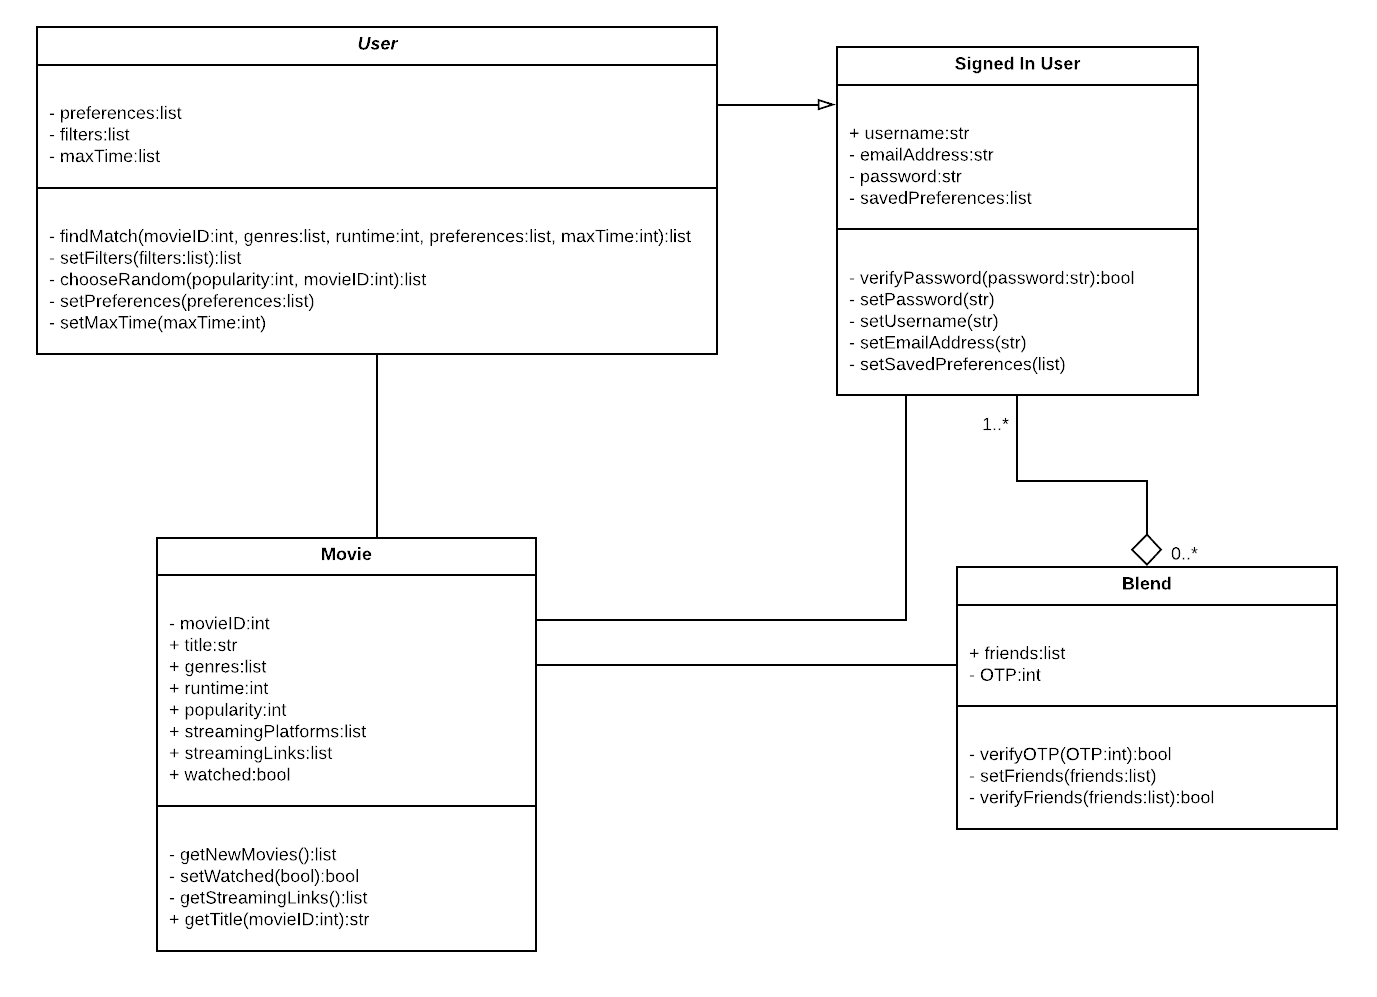
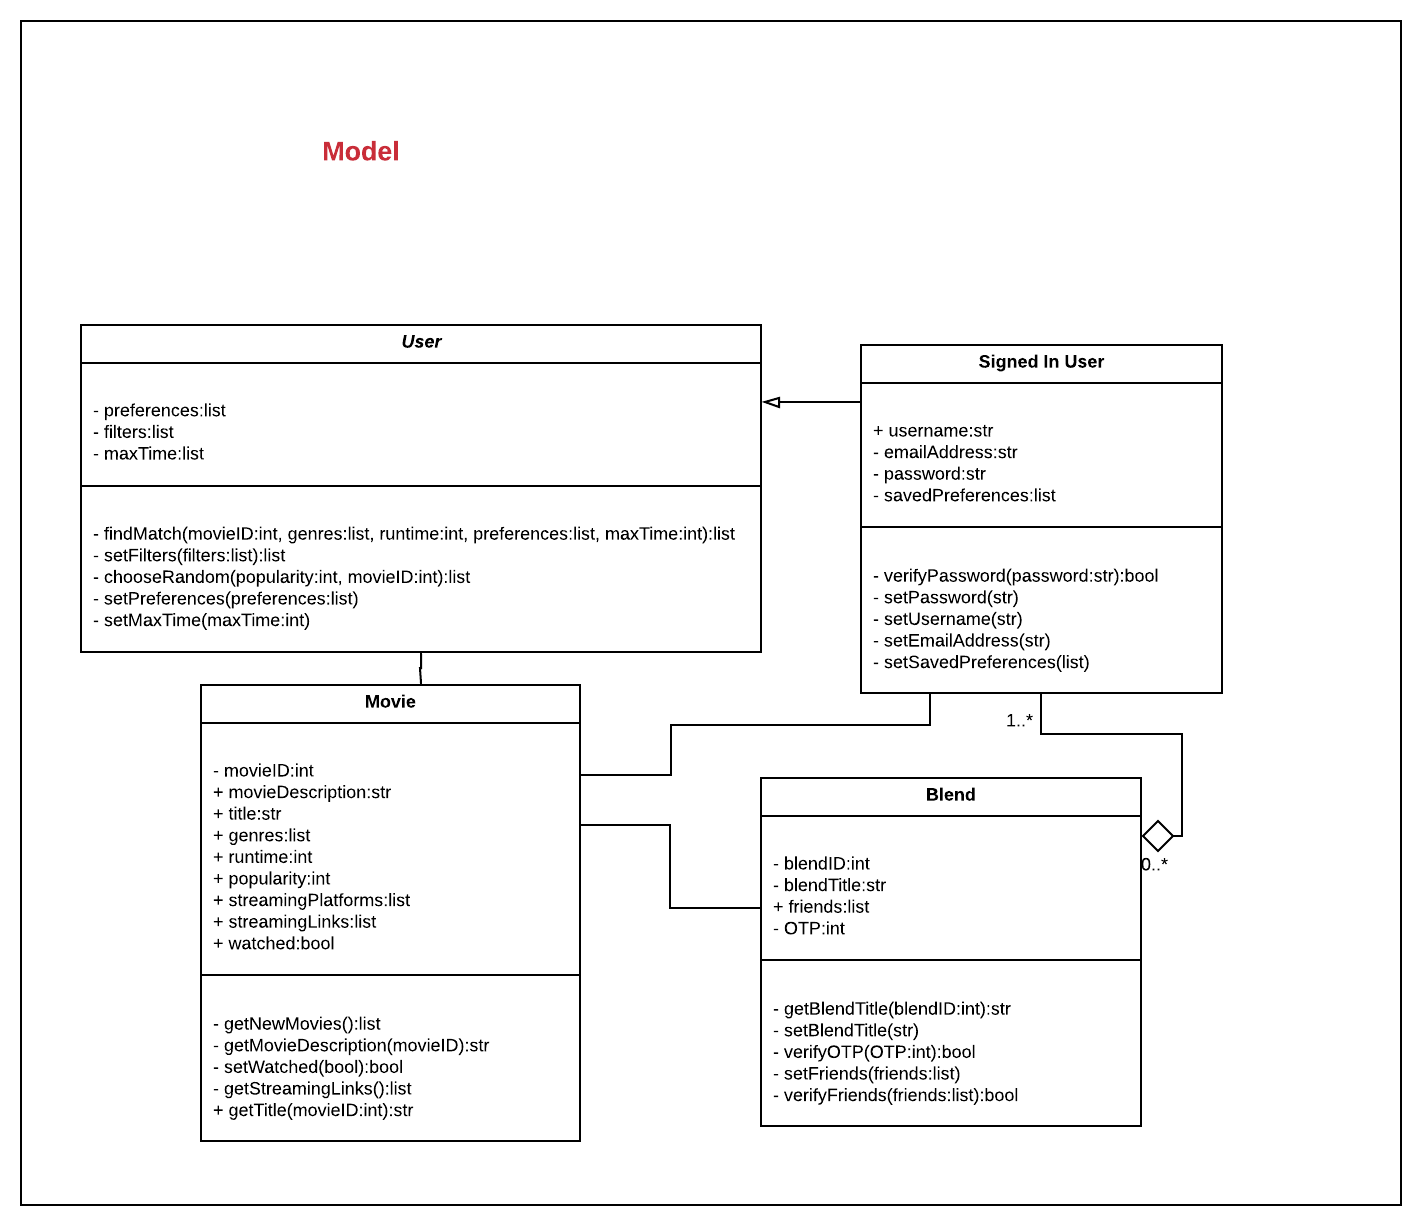
Completed MVC diagram

diff --git a/README.md b/README.md
@@ -99,7 +99,7 @@ The “view” aspect of the MVC pattern represents the structure and appearance
 According to a 2017 survey, 42% of people prefer to use their laptop or desktop to watch TV shows, compared to 13% for smartphone fans and 23% television traditionalists. Although the statistics would likely be quite different for movies, due to widespread appreciation for enjoying cinema on the "big screen", the results of the 2017 survey imply that people are substantially more likely to watch movies on their laptop/desktop than their phones. For this reason,  I decided to optimise the app for desktop use, as it seemed that it would be the most likely Internet-connected device of choice for movie-watchers. 
 
 ![Flow Diagram](Application_Design/flow_diagram_wireframe.png)
-##### Wireframes*
+##### Wireframes
 
 <details>
   <summary>Wireframes</summary>
@@ -154,7 +154,7 @@ According to a 2017 survey, 42% of people prefer to use their laptop or desktop 
 | '/users/settings/<*username*>' | Settings page (09) | **display_settings(username)** |
 | '/users/saved/<*username*>' | Saved Preferences (10) | **display_saved(username)** |
 
-
+![Complete MVC Diagram](Application_Design/MVC_diagram.png)
 
 ### Relational database design
 
